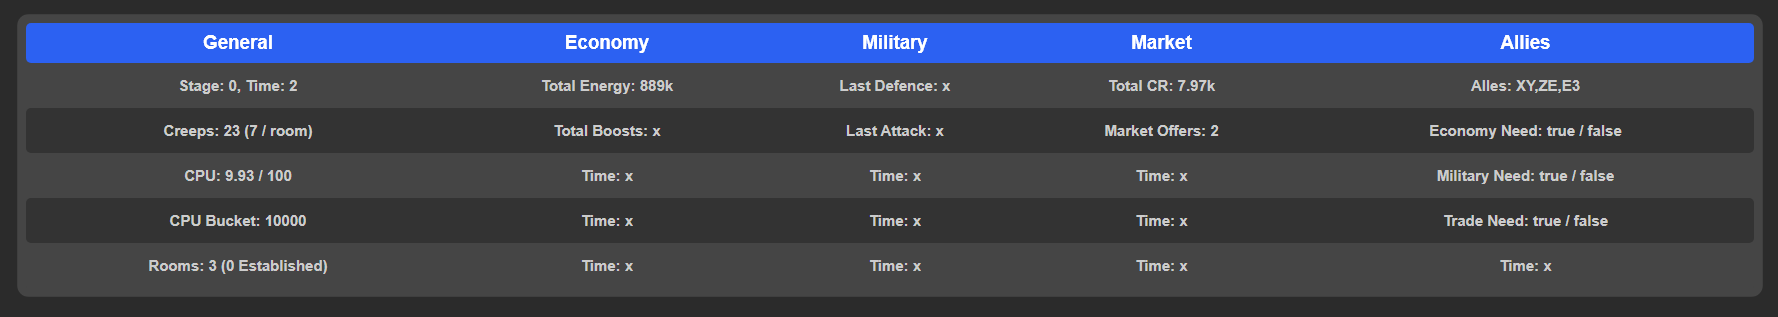
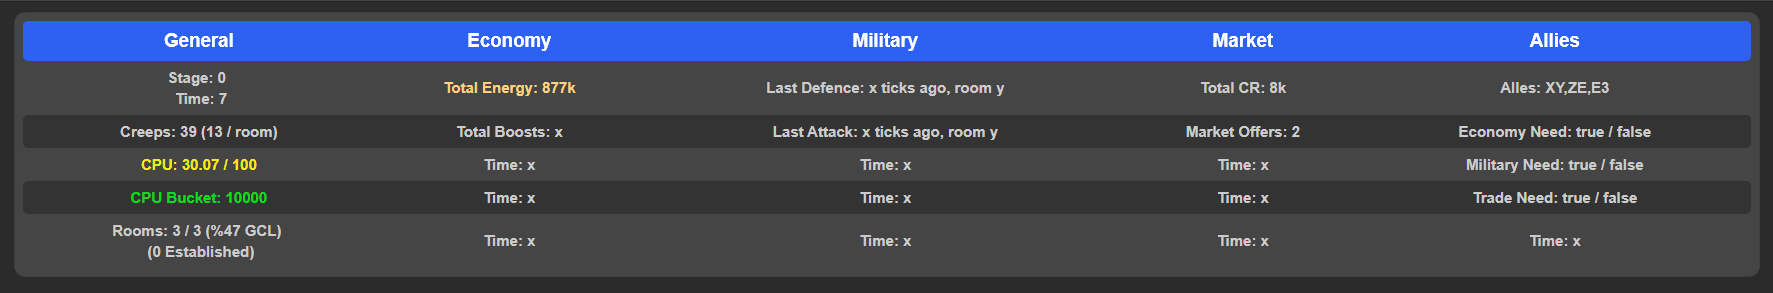
a

diff --git a/src/main.js b/src/main.js
@@ -104,8 +104,6 @@ module.exports.loop = function() {
                 
                 let i = 0
                 
-                
-                
                 _.forEach(Game.rooms, function (room) {
                     
                     if (room.controller && room.controller.my) {
@@ -124,6 +122,58 @@ module.exports.loop = function() {
                        
                 }
             }
+            
+            function cpuMessage() {
+                
+                let cpuMessage
+                let cpu = Game.cpu.getUsed()
+                let cpuTotal = Game.cpu.limit
+                
+                if (cpu <= cpuTotal * 0.3) {
+                    
+                    cpuMessage = `<th style="text-align: center; padding: 5px 0; border-top-left-radius: 4px; border-bottom-left-radius: 4px; color: rgba(11, 218, 32, 1);">CPU: ` + Game.cpu.getUsed().toFixed(2) + " / " + Game.cpu.limit + `</th>`
+                    return cpuMessage
+                }
+                else if (cpu <= cpuTotal * 0.7) {
+                    
+                    cpuMessage = `<th style="text-align: center; padding: 5px 0; border-top-left-radius: 4px; border-bottom-left-radius: 4px; color: rgba(243, 235, 18, 1);">CPU: ` + Game.cpu.getUsed().toFixed(2) + " / " + Game.cpu.limit + `</th>`
+                    return cpuMessage
+                }
+                else {
+                    
+                    cpuMessage = `<th style="text-align: center; padding: 5px 0; border-top-left-radius: 4px; border-bottom-left-radius: 4px; color: rgba(243, 40, 18, 1);">CPU: ` + Game.cpu.getUsed().toFixed(2) + " / " + Game.cpu.limit + `</th>`
+                    return cpuMessage
+                }
+            }
+            
+            function cpuBucketMessage() {
+                
+                let cpuMessage
+                let cpu = Game.cpu.bucket
+                let cpuTotal = 10000
+                
+                if (cpu >= cpuTotal * 0.7) {
+                    
+                    cpuMessage = `<th style="text-align: center; padding: 5px 0; border-top-left-radius: 4px; border-bottom-left-radius: 4px; color: rgba(11, 218, 32, 1);">CPU Bucket: ` + Game.cpu.bucket + `</th>`
+                    return cpuMessage
+                }
+                else if (cpu >= cpuTotal * 0.3) {
+                    
+                    cpuMessage = `<th style="text-align: center; padding: 5px 0; border-top-left-radius: 4px; border-bottom-left-radius: 4px; color: rgba(243, 235, 18, 1);">CPU Bucket: ` + Game.cpu.bucket + `</th>`
+                    return cpuMessage
+                }
+                else {
+                    
+                    cpuMessage = `<th style="text-align: center; padding: 5px 0; border-top-left-radius: 4px; border-bottom-left-radius: 4px; color: rgba(243, 40, 18, 1);">CPU Bucket: ` + Game.cpu.bucket + `</th>`
+                    return cpuMessage
+                }
+            }
+            
+            function energyAmount() {
+                
+                let energyAmount = `<th style="text-align: center; padding: 5px 0; color: #FFD180;">Total Energy: ` + (Memory.global.totalEnergy / 1000).toFixed(0) + "k"+ `</th>`
+                return energyAmount
+            }
 
             console.log('--------------------------------------------------------')
             console.log(`
@@ -136,58 +186,57 @@ module.exports.loop = function() {
                     <th style="color: white; font-size: 15px; text-align: center; padding: 6px 0px; border-top-right-radius: 4px; border-bottom-right-radius: 4px;">Allies</th>
                 </tr>
                 <tr>
-                    <th style="text-align: center; padding: 10px 0; border-top-left-radius: 4px; border-bottom-left-radius: 4px;">Stage: ` + Memory.global.globalStage + `, Time: ` + Game.time % 10 + `</th>
-                    <th style="text-align: center; padding: 10px 0;">Total Energy: ` + (Memory.global.totalEnergy / 1000).toFixed(0) + "k"+ `</th>
-                    <th style="text-align: center; padding: 10px 0;">Last Defence: ` + "x" + `</th>
-                    <th style="text-align: center; padding: 10px 0;">Total CR: ` + (Game.market.credits / 1000).toFixed(2) + "k" + `</th>
-                    <th style="text-align: center; padding: 10px 0; border-top-right-radius: 4px; border-bottom-right-radius: 4px;">Alles: ` + allyList.run(allyList) + `</th>
+                    <th style="text-align: center; padding: 5px 0; border-top-left-radius: 4px; border-bottom-left-radius: 4px;">Stage: ` + Memory.global.globalStage + ` <br /> Time: ` + Game.time % 10 + `</th>
+                    ` + energyAmount() + `
+                    <th style="text-align: center; padding: 5px 0;">Last Defence: ` + "x ticks ago, room y" + `</th>
+                    <th style="text-align: center; padding: 5px 0;">Total CR: ` + (Game.market.credits / 1000).toFixed(0) + "k" + `</th>
+                    <th style="text-align: center; padding: 5px 0; border-top-right-radius: 4px; border-bottom-right-radius: 4px;">Alles: ` + allyList.run(allyList) + `</th>
                 </tr>
                 <tr style="background: #333">
-                    <th style="text-align: center; padding: 10px 0; border-top-left-radius: 4px; border-bottom-left-radius: 4px;">Creeps: ` + Object.keys(Memory.creeps).length + " (" + Math.floor(Object.keys(Memory.creeps).length / myRoomsNumber()) + " / room)" + `</th>
-                    <th style="text-align: center; padding: 10px 0;">Total Boosts: ` + "x" + `</th>
-                    <th style="text-align: center; padding: 10px 0;">Last Attack: ` + "x" + `</th>
-                    <th style="text-align: center; padding: 10px 0;">Market Offers: ` + Object.keys(Game.market.orders).length + `</th>
-                    <th style="text-align: center; padding: 10px 0; border-top-right-radius: 4px; border-bottom-right-radius: 4px;">Economy Need: ` + "true / false" + `</th>
+                    <th style="text-align: center; padding: 5px 0; border-top-left-radius: 4px; border-bottom-left-radius: 4px;">Creeps: ` + Object.keys(Memory.creeps).length + " (" + Math.floor(Object.keys(Memory.creeps).length / myRoomsNumber()) + " / room)" + `</th>
+                    <th style="text-align: center; padding: 5px 0;">Total Boosts: ` + "x" + `</th>
+                    <th style="text-align: center; padding: 5px 0;">Last Attack: ` + "x ticks ago, room y" + `</th>
+                    <th style="text-align: center; padding: 5px 0;">Market Offers: ` + Object.keys(Game.market.orders).length + `</th>
+                    <th style="text-align: center; padding: 5px 0; border-top-right-radius: 4px; border-bottom-right-radius: 4px;">Economy Need: ` + "true / false" + `</th>
                 </tr>
                 <tr>
-                    <th style="text-align: center; padding: 10px 0; border-top-left-radius: 4px; border-bottom-left-radius: 4px;">CPU: ` + Game.cpu.getUsed().toFixed(2) + " / " + Game.cpu.limit + `</th>
-                    <th style="text-align: center; padding: 10px 0;">Time: ` + "x" + `</th>
-                    <th style="text-align: center; padding: 10px 0;">Time: ` + "x" + `</th>
-                    <th style="text-align: center; padding: 10px 0;">Time: ` + "x" + `</th>
-                    <th style="text-align: center; padding: 10px 0; border-top-right-radius: 4px; border-bottom-right-radius: 4px;">Military Need: ` + "true / false" + `</th>
+                    ` + cpuMessage() + `
+                    <th style="text-align: center; padding: 5px 0;">Time: ` + "x" + `</th>
+                    <th style="text-align: center; padding: 5px 0;">Time: ` + "x" + `</th>
+                    <th style="text-align: center; padding: 5px 0;">Time: ` + "x" + `</th>
+                    <th style="text-align: center; padding: 5px 0; border-top-right-radius: 4px; border-bottom-right-radius: 4px;">Military Need: ` + "true / false" + `</th>
                 </tr>
                 <tr style="background: #333">
-                    <th style="text-align: center; padding: 10px 0; border-top-left-radius: 4px; border-bottom-left-radius: 4px;">CPU Bucket: ` + Game.cpu.bucket + `</th>
-                    <th style="text-align: center; padding: 10px 0;">Time: ` + "x" + `</th>
-                    <th style="text-align: center; padding: 10px 0;">Time: ` + "x" + `</th>
-                    <th style="text-align: center; padding: 10px 0;">Time: ` + "x" + `</th>
-                    <th style="text-align: center; padding: 10px 0; border-top-right-radius: 4px; border-bottom-right-radius: 4px;">Trade Need: ` + "true / false" + `</th>
+                    ` + cpuBucketMessage() + `
+                    <th style="text-align: center; padding: 5px 0;">Time: ` + "x" + `</th>
+                    <th style="text-align: center; padding: 5px 0;">Time: ` + "x" + `</th>
+                    <th style="text-align: center; padding: 5px 0;">Time: ` + "x" + `</th>
+                    <th style="text-align: center; padding: 5px 0; border-top-right-radius: 4px; border-bottom-right-radius: 4px;">Trade Need: ` + "true / false" + `</th>
                 </tr>
                 <tr>
-                    <th style="text-align: center; padding: 10px 0; border-top-left-radius: 4px; border-bottom-left-radius: 4px;">Rooms: ` + Memory.global.roomCount + " (" + Memory.global.establishedRooms + " Established)" + `</th>
-                    <th style="text-align: center; padding: 10px 0;">Time: ` + "x" + `</th>
-                    <th style="text-align: center; padding: 10px 0;">Time: ` + "x" + `</th>
-                    <th style="text-align: center; padding: 10px 0;">Time: ` + "x" + `</th>
-                    <th style="text-align: center; padding: 10px 0; border-top-right-radius: 4px; border-bottom-right-radius: 4px;">Time: ` + "x" + `</th>
+                    <th style="text-align: center; padding: 5px 0; border-top-left-radius: 4px; border-bottom-left-radius: 4px;">Rooms: ` + Memory.global.roomCount + " / " + Game.gcl.level + " (%" + (Game.gcl.progress / Game.gcl.progressTotal * 100).toFixed(0) + " GCL)" + ` <br /> ` + "(" + Memory.global.establishedRooms + " Established)" + `</th>
+                    <th style="text-align: center; padding: 5px 0;">Time: ` + "x" + `</th>
+                    <th style="text-align: center; padding: 5px 0;">Time: ` + "x" + `</th>
+                    <th style="text-align: center; padding: 5px 0;">Time: ` + "x" + `</th>
+                    <th style="text-align: center; padding: 5px 0; border-top-right-radius: 4px; border-bottom-right-radius: 4px;">Time: ` + "x" + `</th>
                 </tr>
             </table>
             `)
-            console.log('--------------------------------------------------------')
             
                 /*
                 <tr>
-                    <th style="text-align: center; padding: 10px 0; border-top-left-radius: 4px; border-bottom-left-radius: 4px;">Time: ` + "x" + `</th>
-                    <th style="text-align: center; padding: 10px 0;">Time: ` + "x" + `</th>
-                    <th style="text-align: center; padding: 10px 0;">Time: ` + "x" + `</th>
-                    <th style="text-align: center; padding: 10px 0;">Time: ` + "x" + `</th>
-                    <th style="text-align: center; padding: 10px 0; border-top-right-radius: 4px; border-bottom-right-radius: 4px;">Time: ` + "x" + `</th>
+                    <th style="text-align: center; padding: 5px 0; border-top-left-radius: 4px; border-bottom-left-radius: 4px;">Time: ` + "x" + `</th>
+                    <th style="text-align: center; padding: 5px 0;">Time: ` + "x" + `</th>
+                    <th style="text-align: center; padding: 5px 0;">Time: ` + "x" + `</th>
+                    <th style="text-align: center; padding: 5px 0;">Time: ` + "x" + `</th>
+                    <th style="text-align: center; padding: 5px 0; border-top-right-radius: 4px; border-bottom-right-radius: 4px;">Time: ` + "x" + `</th>
                 </tr>
                 <tr style="background: #333">
-                    <th style="text-align: center; padding: 10px 0; border-top-left-radius: 4px; border-bottom-left-radius: 4px;">Time: ` + "x" + `</th>
-                    <th style="text-align: center; padding: 10px 0;">Time: ` + "x" + `</th>
-                    <th style="text-align: center; padding: 10px 0;">Time: ` + "x" + `</th>
-                    <th style="text-align: center; padding: 10px 0;">Time: ` + "x" + `</th>
-                    <th style="text-align: center; padding: 10px 0; border-top-right-radius: 4px; border-bottom-right-radius: 4px;">Time: ` + "x" + `</th>
+                    <th style="text-align: center; padding: 5px 0; border-top-left-radius: 4px; border-bottom-left-radius: 4px;">Time: ` + "x" + `</th>
+                    <th style="text-align: center; padding: 5px 0;">Time: ` + "x" + `</th>
+                    <th style="text-align: center; padding: 5px 0;">Time: ` + "x" + `</th>
+                    <th style="text-align: center; padding: 5px 0;">Time: ` + "x" + `</th>
+                    <th style="text-align: center; padding: 5px 0; border-top-right-radius: 4px; border-bottom-right-radius: 4px;">Time: ` + "x" + `</th>
                 </tr>
                 */
             

diff --git a/src/module.constants.js b/src/module.constants.js
@@ -287,7 +287,7 @@ module.exports = {
                     
                     room.memory.totalEnergy = storageEnergy + terminalEnergy
                     
-                    console.log(room.memory.totalEnergy)
+                    //console.log(room.memory.totalEnergy)
                     
                     totalEnergy += room.memory.totalEnergy
                 }
